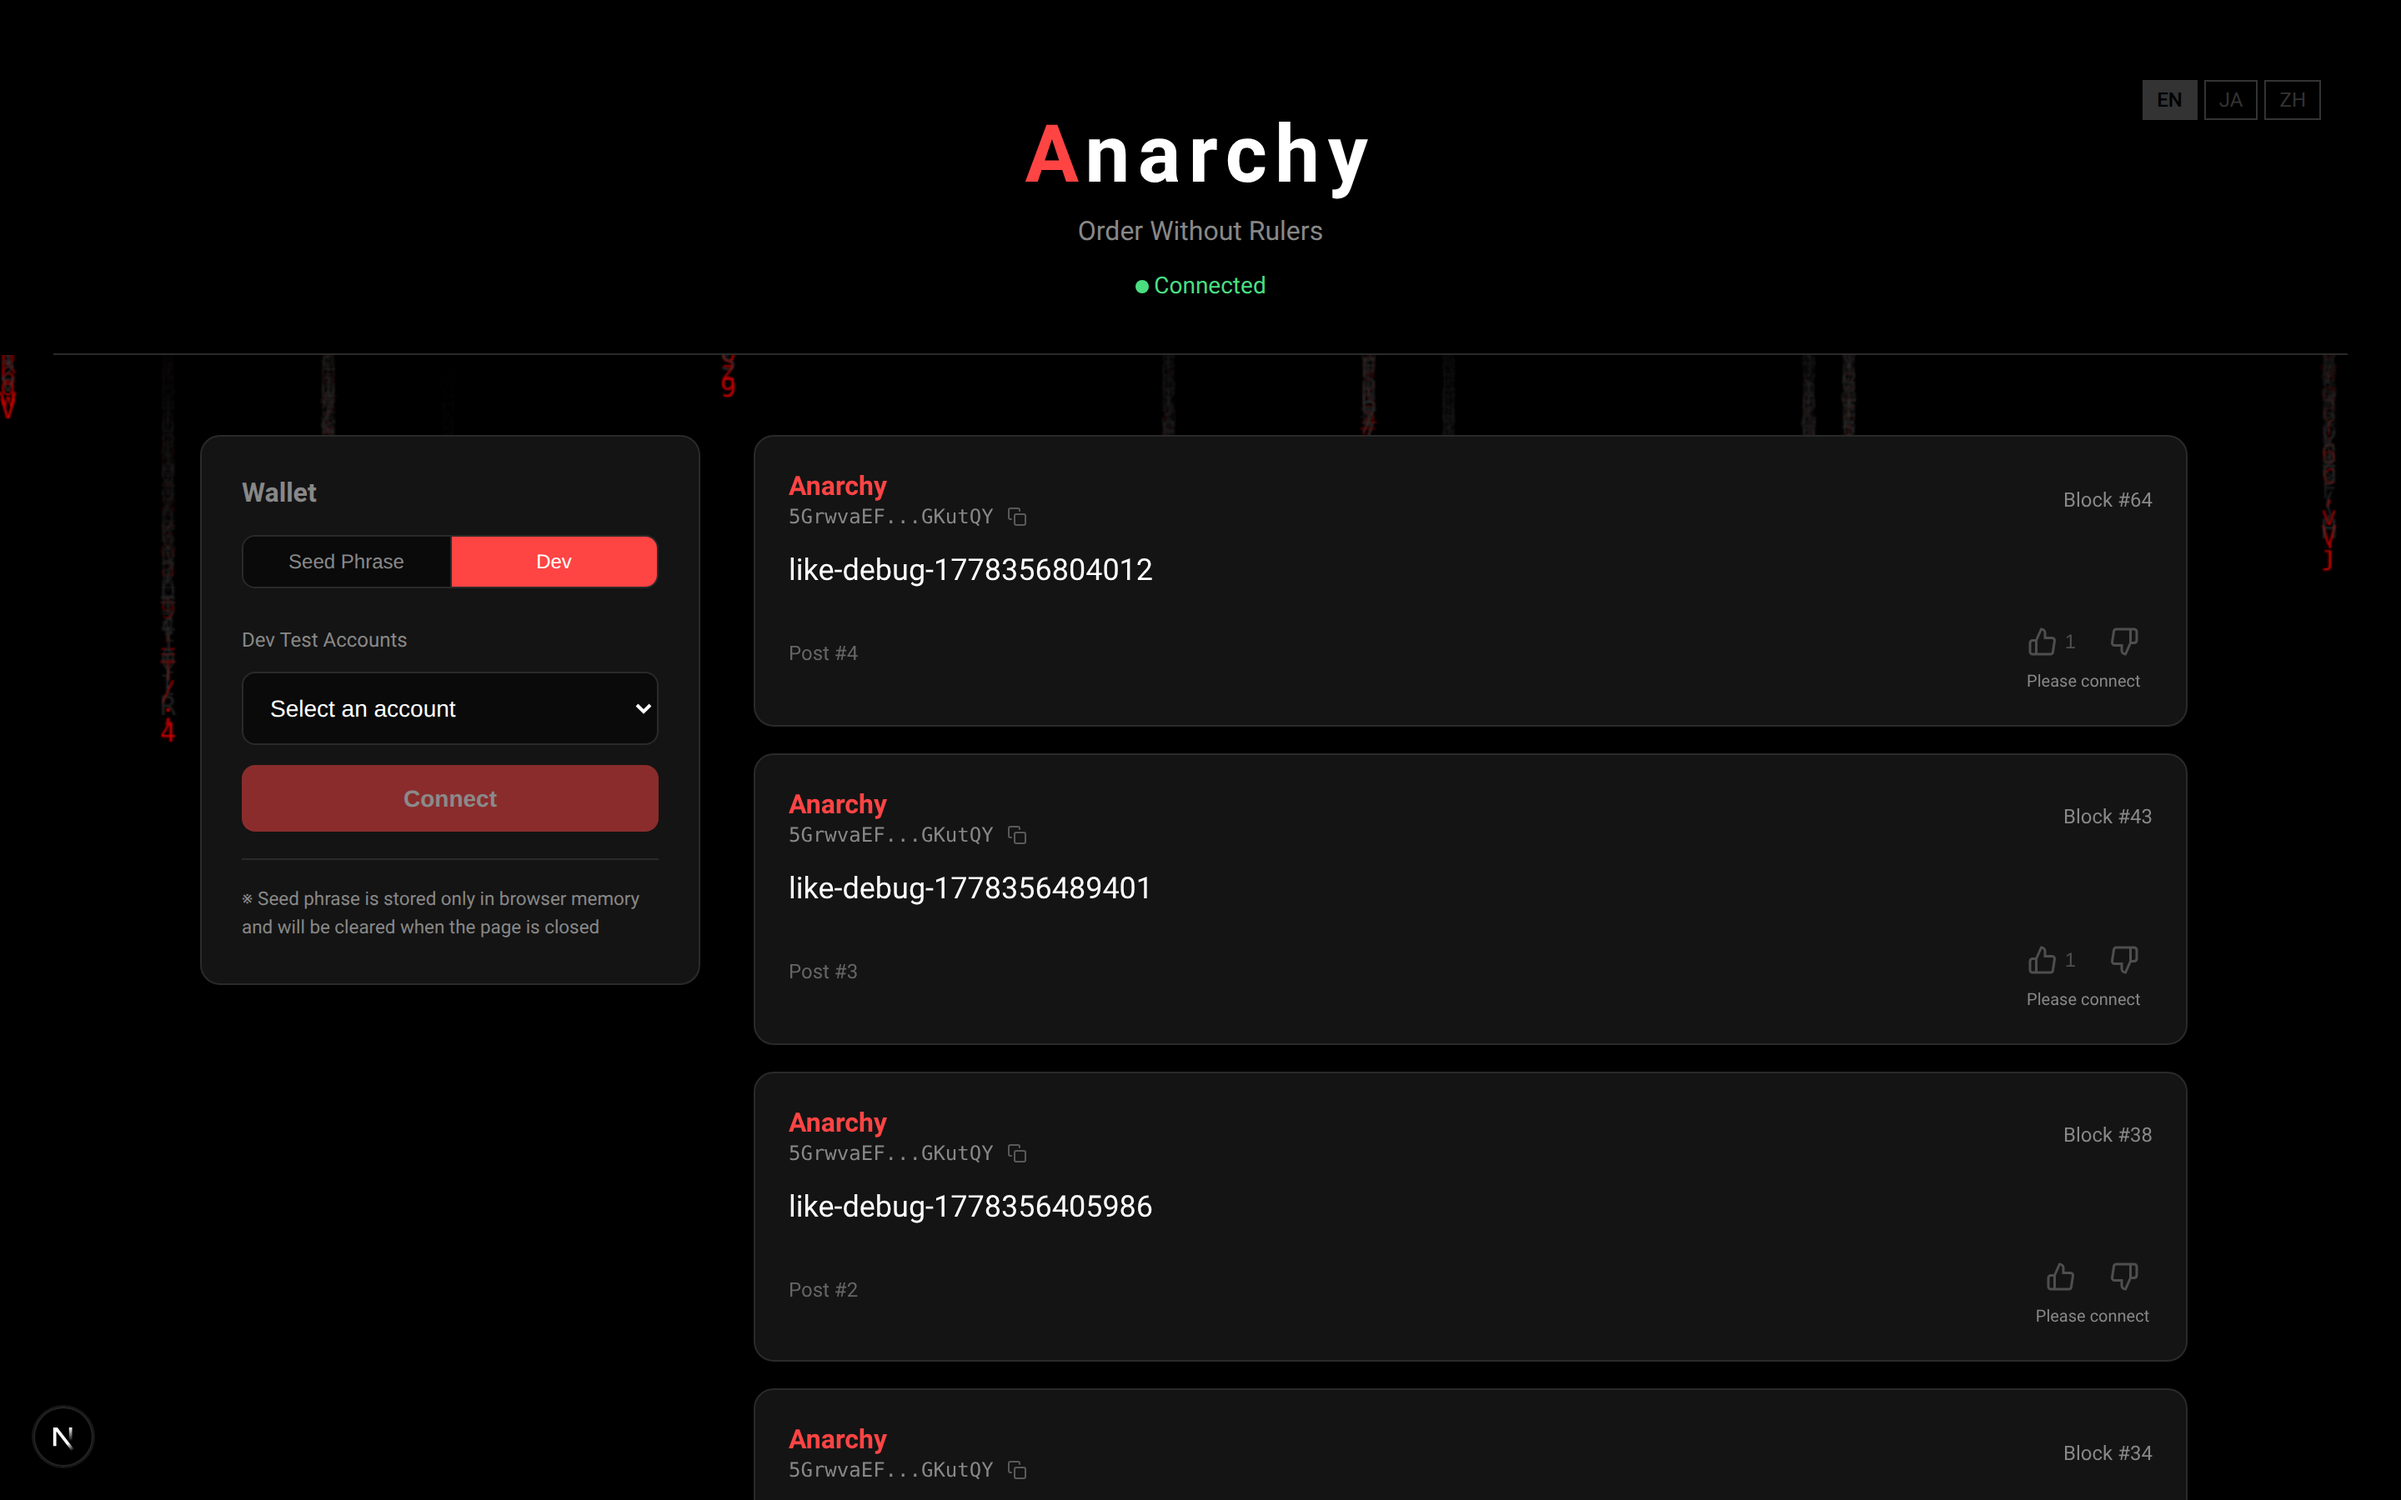
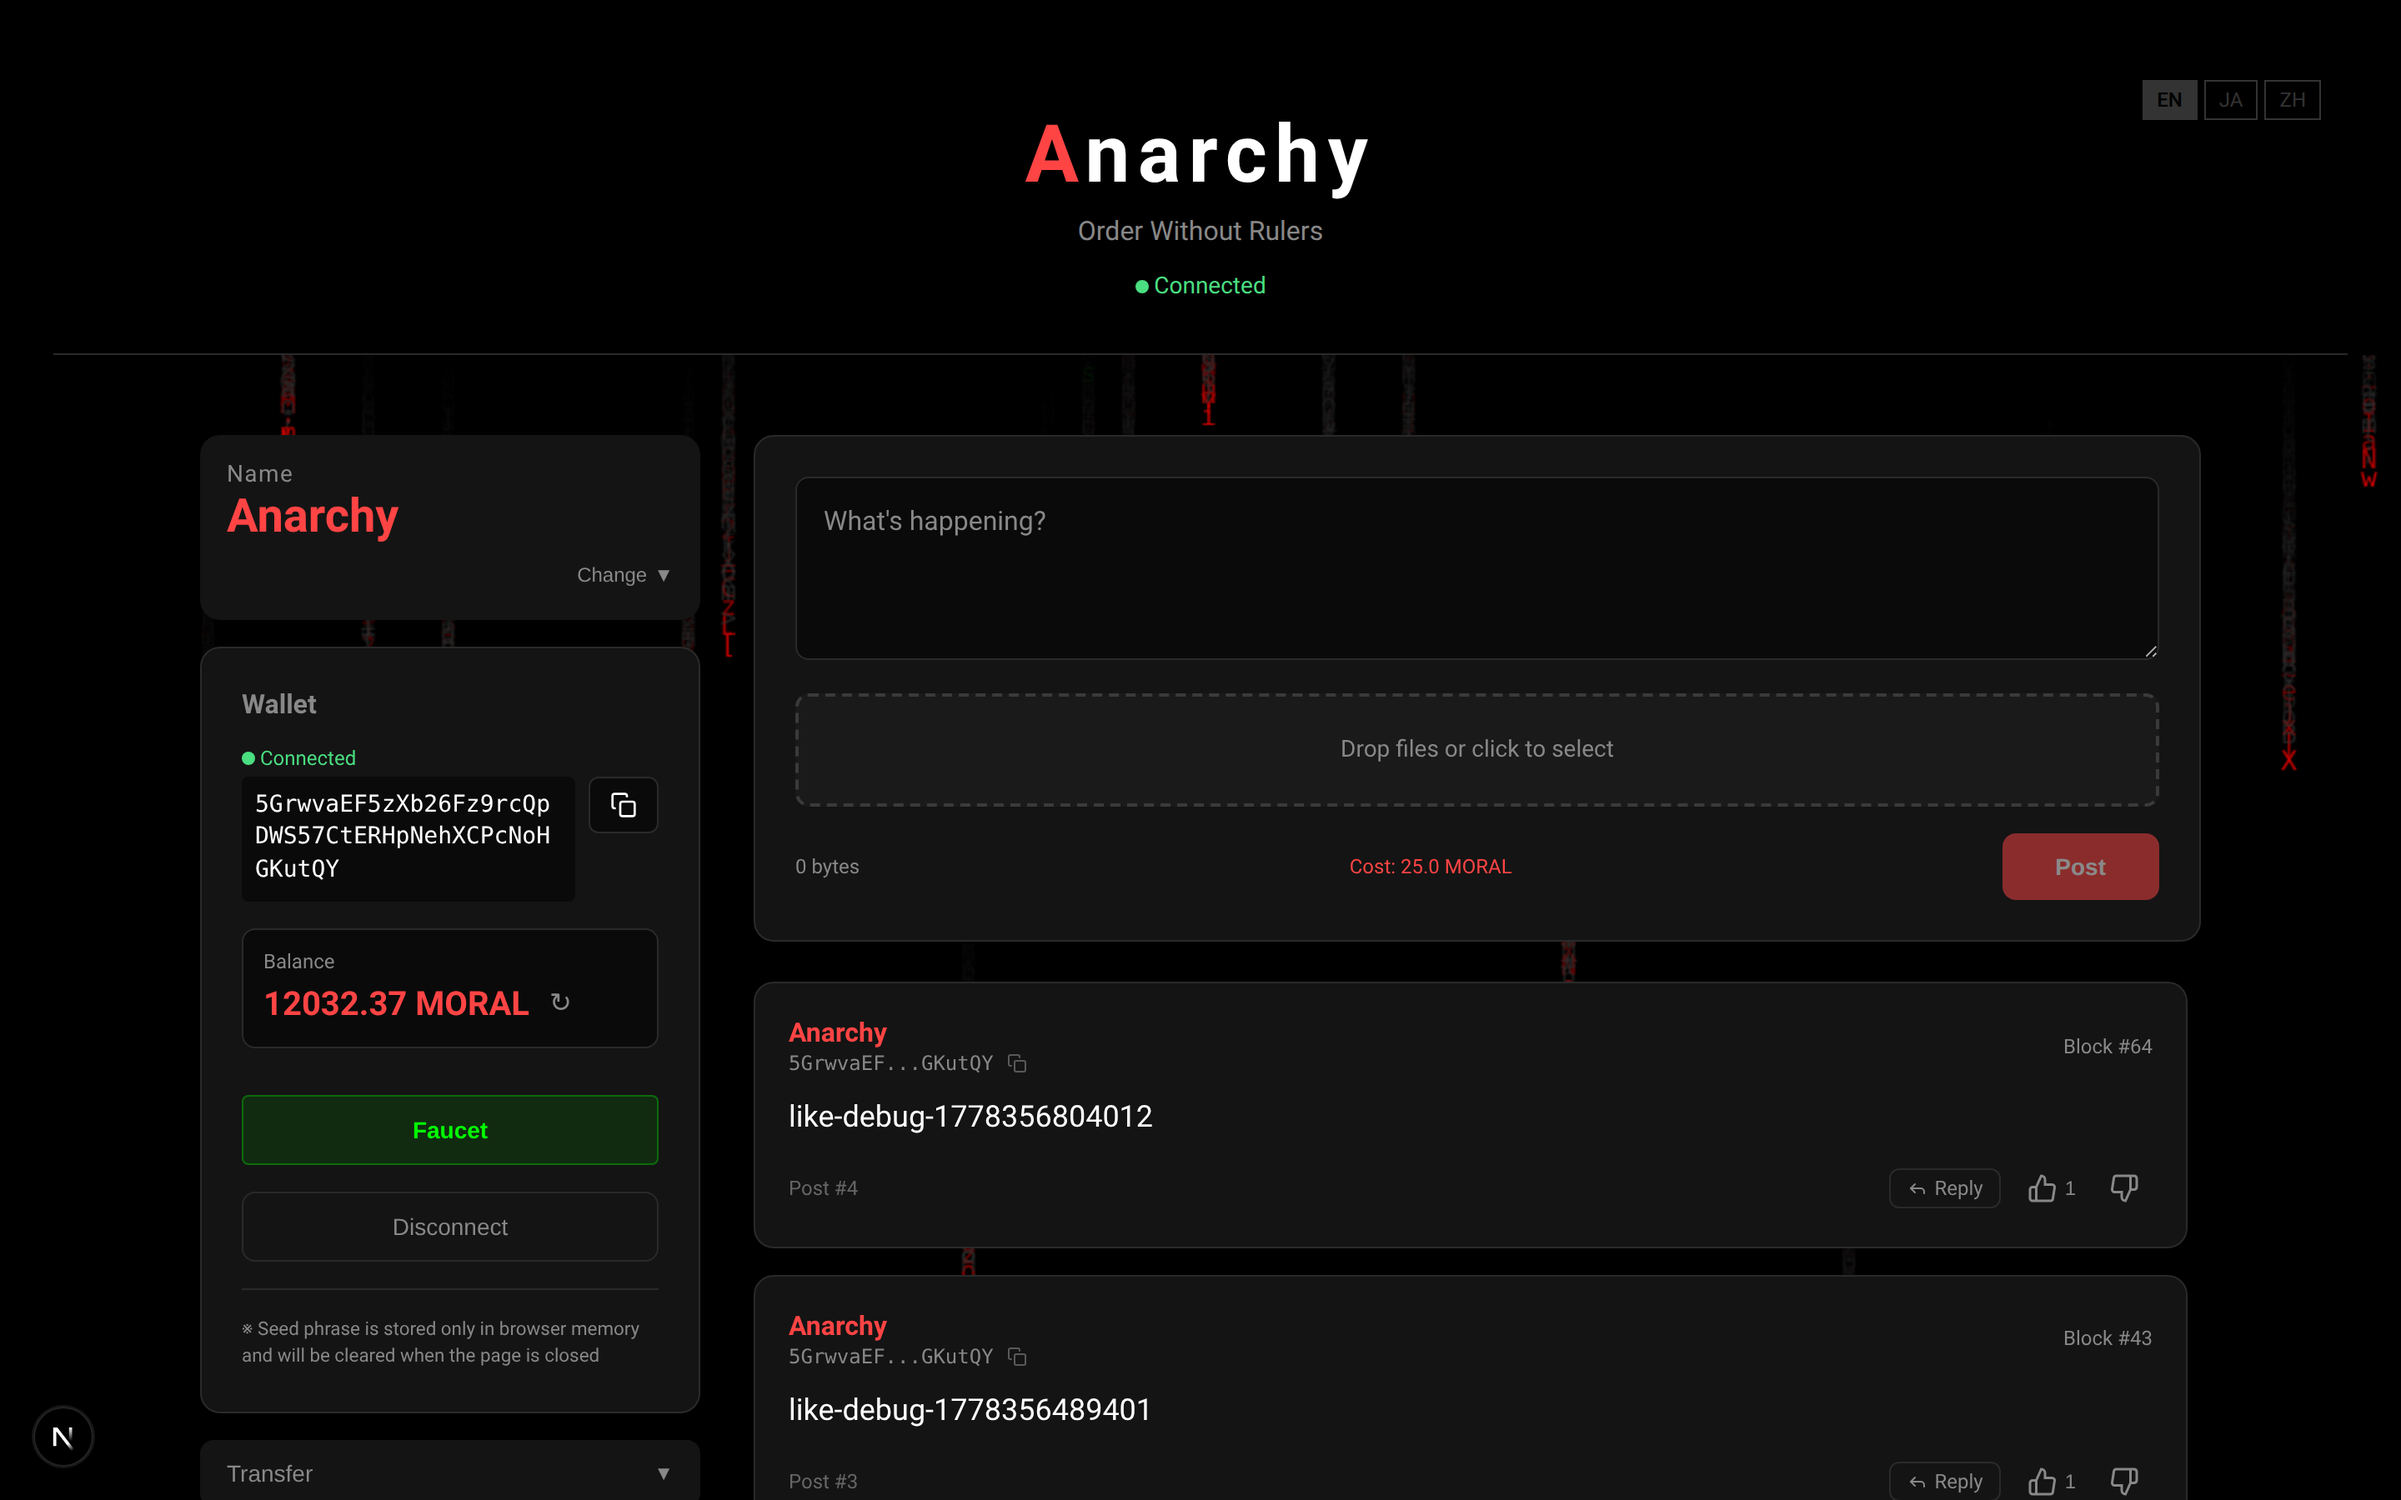
docs(README): update screenshot descriptions and add new screenshots for disconnected and stealth states

diff --git a/assets/README.md b/assets/README.md
@@ -6,18 +6,22 @@
 |---|---|---|
 | `logo.svg` | アイコン (240×240) | プロのロゴデザイン (Figma / 外注) で差し替え |
 | `banner.svg` | README ヘッダ (1280×320) | 同上 |
-| `screenshot-home.png` | フロントエンドの主要画面キャプチャ | 実機で UI 改訂のたびに撮り直し |
+| `screenshot-home.png` | タイムライン (Alice 接続済み) | UI 改訂のたびに撮り直し |
+| `screenshot-home-disconnected.png` | 未接続ランディング | 同上 |
+| `screenshot-stealth.png` | ステルスアドレスページ | 同上 |
 
 ## 撮影手順
 
+[apps/frontend/scripts/capture-screenshots.mjs](../apps/frontend/scripts/capture-screenshots.mjs) が CLI Chromium 経由で全 3 枚を一括取得します。
+
 ```bash
-pnpm stack:start                    # フロント + チェーン + ストレージ
-pnpm --filter @anarchy/frontend exec playwright screenshot \
-  --viewport-size=1440,900 \
-  --device "Desktop Chrome" \
-  http://localhost:3000 assets/screenshot-home.png
+pnpm stack:start                    # フロント + チェーン + ストレージ (依存順)
+cd apps/frontend
+BASE_URL=http://127.0.0.1:3000 node scripts/capture-screenshots.mjs
 ```
 
-実機での E2E 設定は [.claude/skills/playwright-e2e/SKILL.md](../.claude/skills/playwright-e2e/SKILL.md) を参照。
+スクリプトは [e2e/fixtures/chain.ts](../apps/frontend/e2e/fixtures/chain.ts) と同じ Dev ドロップダウン経由で `//Alice` に Connect してから撮ります。
+
+> Playwright MCP は OS 互換性 (chrome-for-testing) で WSL2 では動きません。CLI Chromium (`@playwright/test` 同梱) を使ってください。詳細は [.claude/skills/playwright-e2e/SKILL.md](../.claude/skills/playwright-e2e/SKILL.md) §「Playwright MCP は現状非対応」参照。
 
 > 現在の `logo.svg` / `banner.svg` はプレースホルダ。本物のブランディングが固まったら差し替えてください。
